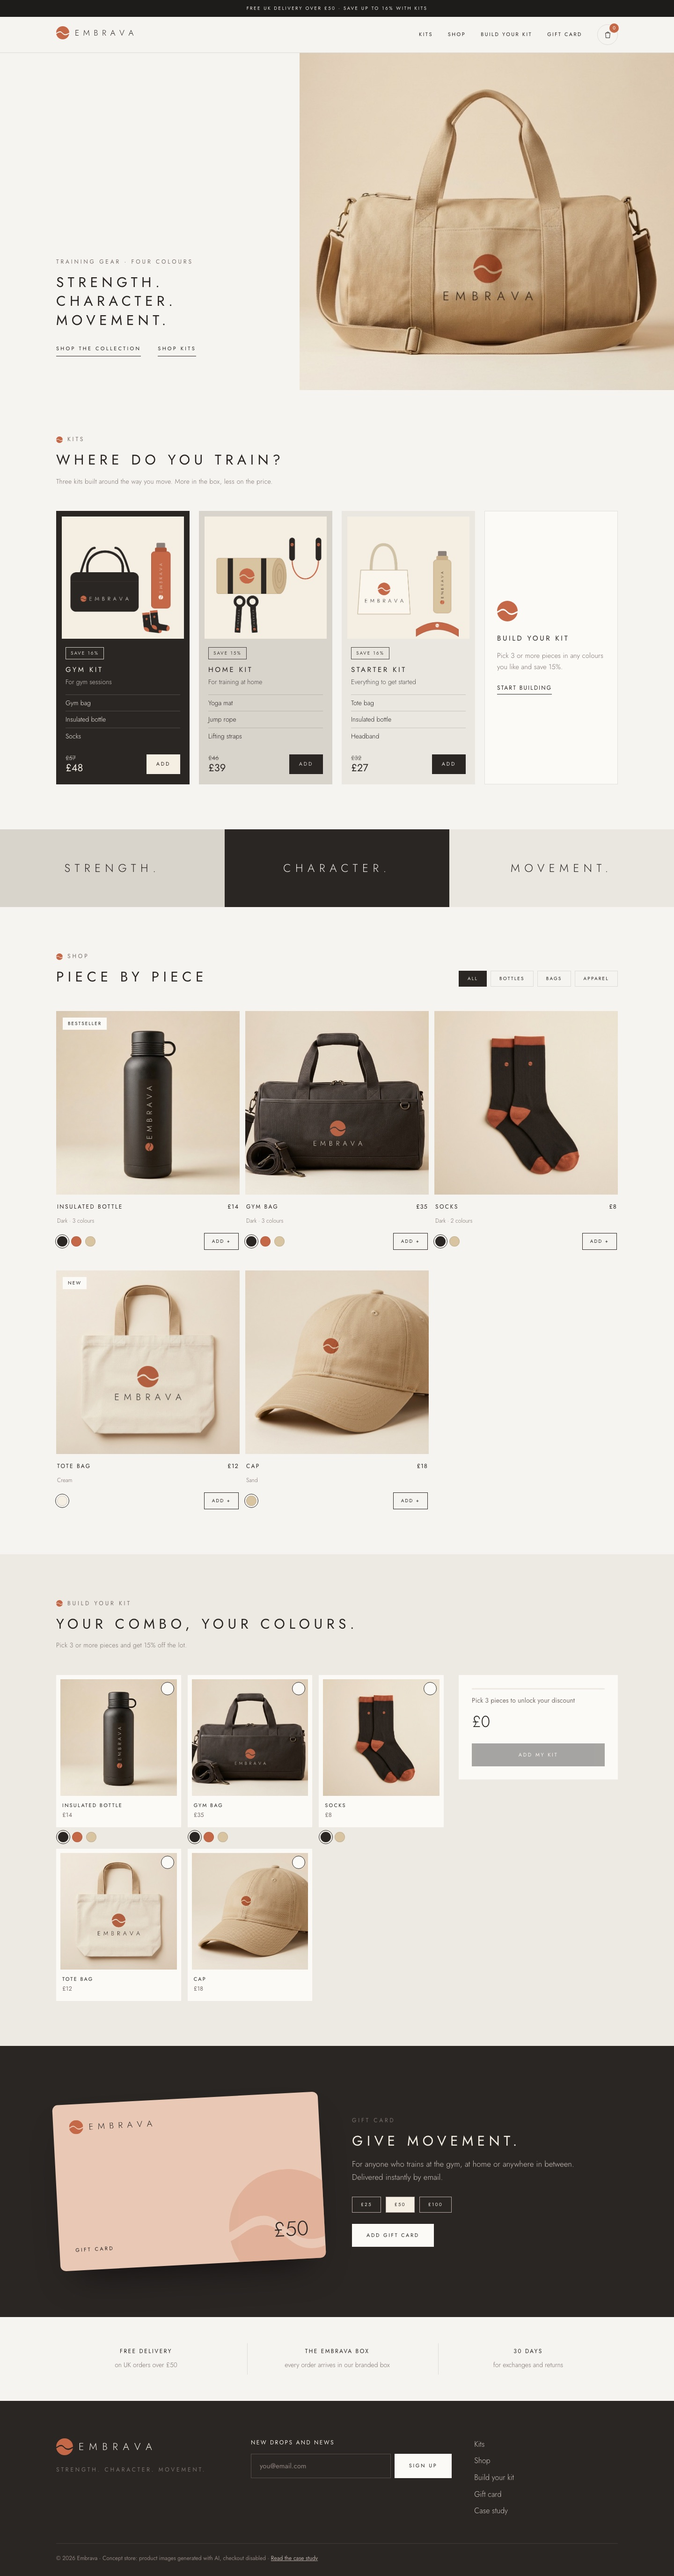
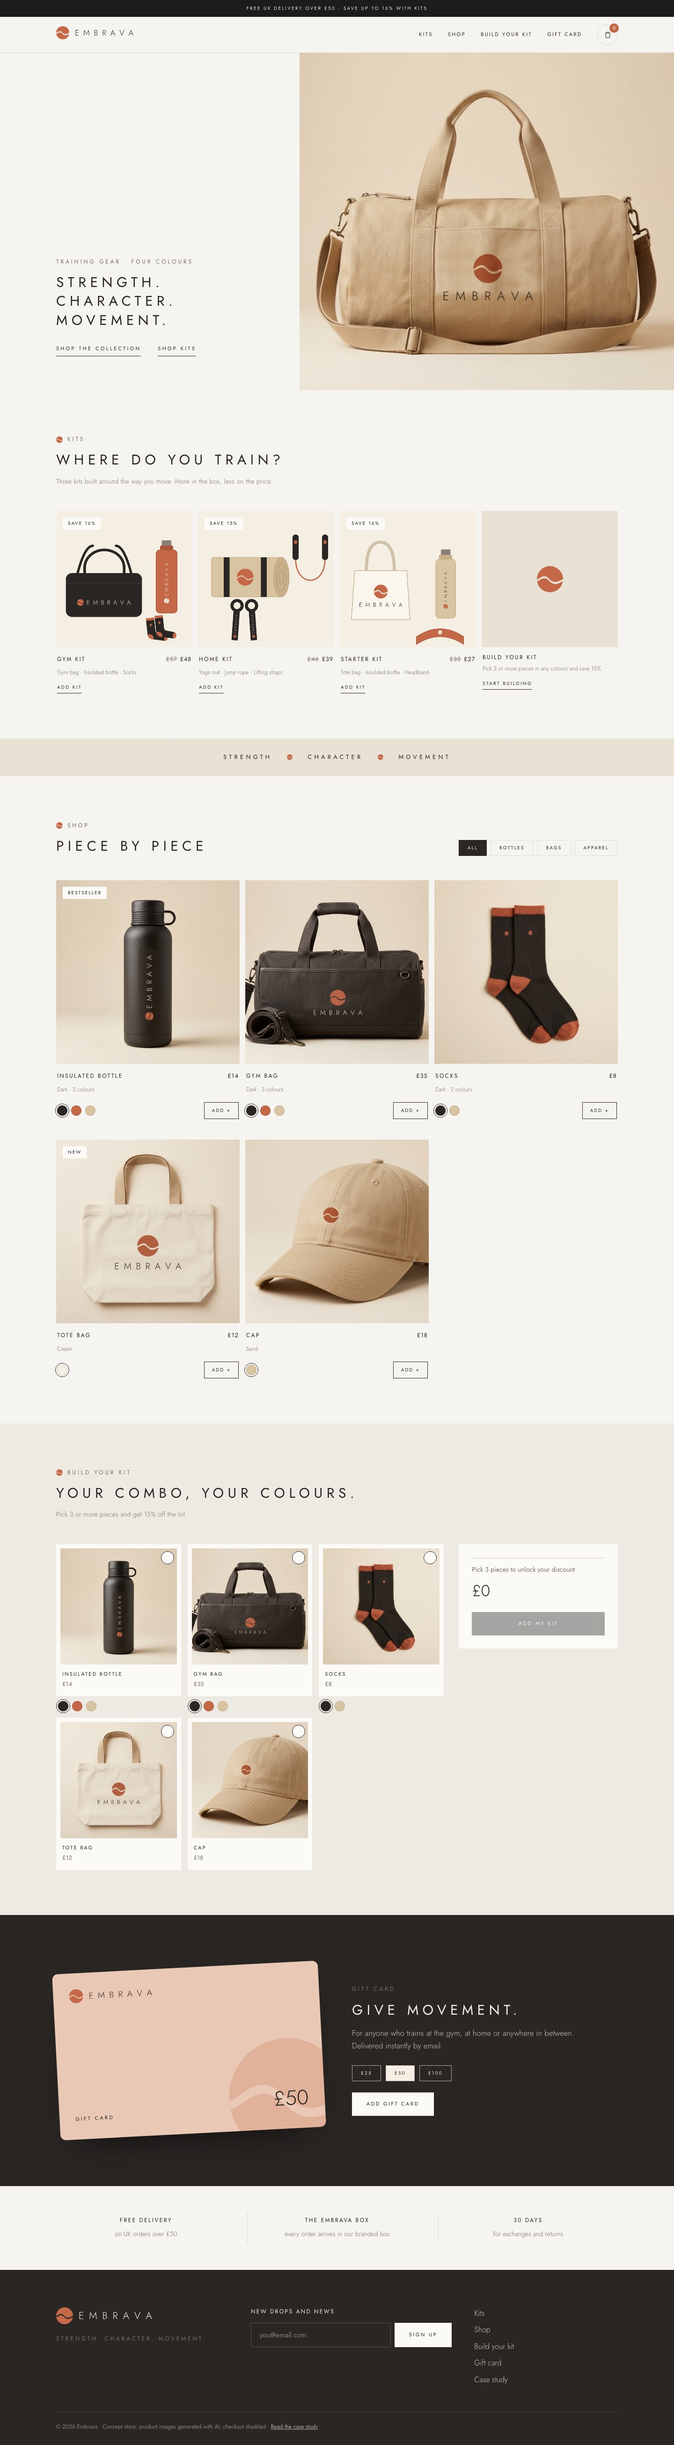
Actualiza las capturas de Embrava con los kits finos y la franja nueva

diff --git a/work/embrava.html b/work/embrava.html
@@ -67,7 +67,7 @@
           <div class="browser-url">andrea-mmo.github.io/embrava</div>
         </div>
         <div class="browser-view" tabindex="0" aria-label="Scrollable preview of the Embrava store on desktop">
-          <img src="../images/embrava-long.jpg" alt="Desktop view of the Embrava homepage: hero, kits, brand band, product grid, build your kit, gift card and footer" width="1440" height="5501">
+          <img src="../images/embrava-long.jpg" alt="Desktop view of the Embrava homepage: hero, kits, brand band, product grid, build your kit, gift card and footer" width="1440" height="5222">
         </div>
         <figcaption>Desktop. Scroll inside the frame to see the full homepage.</figcaption>
       </figure>
